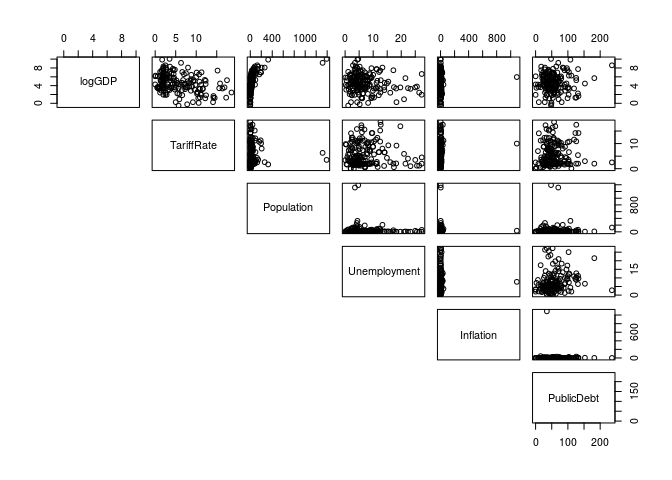
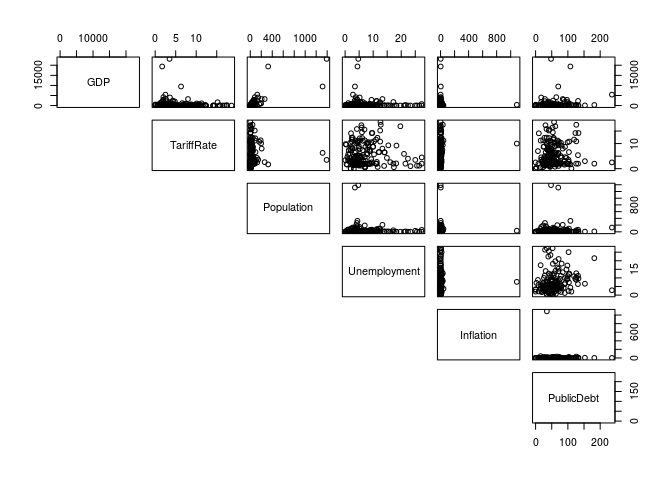
Edited scatterplots and added in multivariate analysis

diff --git a/01-proposal/proposal.md b/01-proposal/proposal.md
@@ -7,14 +7,14 @@ Rtists
 library(tidyverse)
 ```
 
-    ## ── Attaching packages ─────────────────────────────────────────────────────────────── tidyverse 1.2.1 ──
+    ## ── Attaching packages ─────────────────────────────────────────────────────────────────────────────────── tidyverse 1.2.1 ──
 
     ## ✔ ggplot2 3.2.1     ✔ purrr   0.3.2
     ## ✔ tibble  2.1.3     ✔ dplyr   0.8.3
     ## ✔ tidyr   0.8.3     ✔ stringr 1.4.0
     ## ✔ readr   1.3.1     ✔ forcats 0.4.0
 
-    ## ── Conflicts ────────────────────────────────────────────────────────────────── tidyverse_conflicts() ──
+    ## ── Conflicts ────────────────────────────────────────────────────────────────────────────────────── tidyverse_conflicts() ──
     ## ✖ dplyr::filter() masks stats::filter()
     ## ✖ dplyr::lag()    masks stats::lag()
 
@@ -135,7 +135,7 @@ skim()
     ##  n obs: 173 
     ##  n variables: 1 
     ## 
-    ## ── Variable type:numeric ───────────────────────────────────────────────────────────────────────────────
+    ## ── Variable type:numeric ───────────────────────────────────────────────────────────────────────────────────────────────────
     ##  variable missing complete   n   mean      sd  p0  p25  p50   p75    p100
     ##       GDP       0      173 173 729.71 2486.04 0.6 28.3 88.9 439.6 23159.1
     ##      hist
@@ -172,7 +172,7 @@ skim()
     ##  n obs: 173 
     ##  n variables: 1 
     ## 
-    ## ── Variable type:numeric ───────────────────────────────────────────────────────────────────────────────
+    ## ── Variable type:numeric ───────────────────────────────────────────────────────────────────────────────────────────────────
     ##  variable missing complete   n   mean      sd  p0  p25  p50   p75    p100
     ##       GDP       0      173 173 729.71 2486.04 0.6 28.3 88.9 439.6 23159.1
     ##      hist
@@ -210,7 +210,7 @@ skim()
     ##  n obs: 173 
     ##  n variables: 1 
     ## 
-    ## ── Variable type:numeric ───────────────────────────────────────────────────────────────────────────────
+    ## ── Variable type:numeric ───────────────────────────────────────────────────────────────────────────────────────────────────
     ##  variable missing complete   n mean   sd    p0  p25  p50  p75  p100
     ##    logGDP       0      173 173 4.61 2.08 -0.51 3.34 4.49 6.09 10.05
     ##      hist
@@ -247,7 +247,7 @@ skim()
     ##  n obs: 173 
     ##  n variables: 1 
     ## 
-    ## ── Variable type:numeric ───────────────────────────────────────────────────────────────────────────────
+    ## ── Variable type:numeric ───────────────────────────────────────────────────────────────────────────────────────────────────
     ##   variable missing complete   n  mean    sd  p0 p25  p50  p75 p100
     ##  TaxBurden       0      173 173 22.19 10.25 1.6  14 20.7 30.2   47
     ##      hist
@@ -280,7 +280,7 @@ skim()
     ##  n obs: 173 
     ##  n variables: 1 
     ## 
-    ## ── Variable type:numeric ───────────────────────────────────────────────────────────────────────────────
+    ## ── Variable type:numeric ───────────────────────────────────────────────────────────────────────────────────────────────────
     ##     variable missing complete   n mean    sd   p0  p25  p50  p75 p100
     ##  GovSpending       0      173 173 32.2 10.67 10.6 23.6 31.6 39.8 64.2
     ##      hist
@@ -316,7 +316,7 @@ skim()
     ##  n obs: 173 
     ##  n variables: 1 
     ## 
-    ## ── Variable type:numeric ───────────────────────────────────────────────────────────────────────────────
+    ## ── Variable type:numeric ───────────────────────────────────────────────────────────────────────────────────────────────────
     ##    variable missing complete   n  mean     sd  p0 p25 p50  p75   p100
     ##  Population       0      173 173 42.16 149.89 0.1 2.9 9.5 31.4 1390.1
     ##      hist
@@ -350,7 +350,7 @@ skim()
     ##  n obs: 173 
     ##  n variables: 1 
     ## 
-    ## ── Variable type:numeric ───────────────────────────────────────────────────────────────────────────────
+    ## ── Variable type:numeric ───────────────────────────────────────────────────────────────────────────────────────────────────
     ##    variable missing complete   n  mean     sd  p0 p25 p50  p75   p100
     ##  Population       0      173 173 42.16 149.89 0.1 2.9 9.5 31.4 1390.1
     ##      hist
@@ -383,7 +383,7 @@ skim()
     ##  n obs: 173 
     ##  n variables: 1 
     ## 
-    ## ── Variable type:numeric ───────────────────────────────────────────────────────────────────────────────
+    ## ── Variable type:numeric ───────────────────────────────────────────────────────────────────────────────────────────────────
     ##      variable missing complete   n mean   sd  p0 p25 p50 p75 p100     hist
     ##  Unemployment       0      173 173 7.27 5.67 0.1 3.7 5.5 9.3 27.3 ▆▇▅▂▁▁▁▁
 
@@ -427,7 +427,7 @@ skim()
     ##  n obs: 173 
     ##  n variables: 1 
     ## 
-    ## ── Variable type:numeric ───────────────────────────────────────────────────────────────────────────────
+    ## ── Variable type:numeric ───────────────────────────────────────────────────────────────────────────────────────────────────
     ##   variable missing complete   n  mean    sd   p0 p25 p50 p75   p100
     ##  Inflation       0      173 173 10.87 82.56 -0.9 1.3 2.8 5.5 1087.5
     ##      hist
@@ -515,7 +515,7 @@ economic_data %>%
     ##  n obs: 173 
     ##  n variables: 1 
     ## 
-    ## ── Variable type:numeric ───────────────────────────────────────────────────────────────────────────────
+    ## ── Variable type:numeric ───────────────────────────────────────────────────────────────────────────────────────────────────
     ##    variable missing complete   n mean  sd p0 p25 p50 p75 p100     hist
     ##  TariffRate       0      173 173 5.61 4.4  0   2 4.2 8.7 18.6 ▇▅▃▃▃▁▁▁
 
@@ -545,7 +545,7 @@ economic_data %>%
     ##  n obs: 173 
     ##  n variables: 1 
     ## 
-    ## ── Variable type:numeric ───────────────────────────────────────────────────────────────────────────────
+    ## ── Variable type:numeric ───────────────────────────────────────────────────────────────────────────────────────────────────
     ##       variable missing complete   n  mean    sd p0 p25 p50 p75 p100
     ##  IncomeTaxRate       0      173 173 28.78 13.32  0  20  30  35   60
     ##      hist
@@ -579,7 +579,7 @@ skim()
     ##  n obs: 173 
     ##  n variables: 1 
     ## 
-    ## ── Variable type:numeric ───────────────────────────────────────────────────────────────────────────────
+    ## ── Variable type:numeric ───────────────────────────────────────────────────────────────────────────────────────────────────
     ##          variable missing complete   n  mean   sd p0 p25 p50 p75 p100
     ##  CorporateTaxRate       0      173 173 23.95 8.89  0  20  25  30   50
     ##      hist
@@ -612,7 +612,7 @@ skim()
     ##  n obs: 173 
     ##  n variables: 1 
     ## 
-    ## ── Variable type:numeric ───────────────────────────────────────────────────────────────────────────────
+    ## ── Variable type:numeric ───────────────────────────────────────────────────────────────────────────────────────────────────
     ##    variable missing complete   n  mean   sd p0  p25  p50  p75  p100
     ##  PublicDebt       0      173 173 56.46 33.8  0 35.2 49.4 69.9 236.4
     ##      hist
@@ -624,90 +624,99 @@ skewed. There are several outliers with public debt more than 175%. The
 mode of the distribution is around 30%. The median public debt is 49.4%
 and the interquartile range is 35%.
 
+### Multi-Variate Analysis of Response vs Predictor Variables
+
 Finally, we can visualize paired scatter plots of the relationship
 between GDP and each of our predictor variables. This is shown below.
-Some of the plots provide no visual information as there are outliers
-that skew the visualization, but this will be corrected for later in our
-analysis.
+Most of the plots provide no visual information as there are outliers
+that skew the
+visualization.
 
 ``` r
-pairs(logGDP ~ TariffRate + Population + Unemployment + Inflation + PublicDebt, data=economic_data, lower.panel = NULL)
+pairs(GDP ~ TariffRate + Population + Unemployment + Inflation + PublicDebt, data=economic_data, lower.panel = NULL)
 ```
 
 ![](proposal_files/figure-gfm/scatterplot%20matrix%20GDP%20growth-1.png)<!-- -->
 
 ``` r
-pairs(logGDP ~ GovSpending + IncomeTaxRate + CorporateTaxRate + TaxBurden, data=economic_data, lower.panel = NULL)
+pairs(GDP ~ GovSpending + IncomeTaxRate + CorporateTaxRate + TaxBurden, data=economic_data, lower.panel = NULL)
 ```
 
 ![](proposal_files/figure-gfm/scatterplot%20matrix%20GDP%20growth-2.png)<!-- -->
 
-``` r
-economic_data %>%
-ggplot(mapping = aes(x = Region, y = GDP)) +
-  geom_boxplot(position="dodge") +
-  labs(title = "Boxplots of GDP versus Region")
-```
-
-![](proposal_files/figure-gfm/scatterplot%20matrix%20GDP%20growth-3.png)<!-- -->
-
-``` r
-economic_data %>%
-ggplot(mapping = aes(x = GovInterference, y = GDP)) +
-  geom_boxplot(position="dodge") +
-  labs(title = "Boxplots of Government Interference versus Region")
-```
-
-![](proposal_files/figure-gfm/scatterplot%20matrix%20GDP%20growth-4.png)<!-- -->
+To better help us visualize the relationship between the predictor and
+response variables for most data points, we plotted a scatterplot matrix
+with most of the outliers removed.
 
 ``` r
 temp <- economic_data %>%
   filter(GDP<3000 & Inflation < 100)
 
-temp <- temp %>%
-  mutate(sqrtGDP = (GDP)^(1/2))
-
-pairs(sqrtGDP ~ TariffRate + Population + Unemployment + Inflation + PublicDebt, data=temp, lower.panel = NULL)
+pairs(GDP ~ TariffRate + Population + Unemployment + Inflation + PublicDebt, data=temp, lower.panel = NULL)
 ```
 
-![](proposal_files/figure-gfm/scatterplot%20matrix%20GDP%20growth-5.png)<!-- -->
+![](proposal_files/figure-gfm/Scatterplot%20GDP%20without%20outliers-1.png)<!-- -->
 
 ``` r
-pairs(sqrtGDP ~ GovSpending + IncomeTaxRate + CorporateTaxRate + TaxBurden, data=temp, lower.panel = NULL)
+pairs(GDP ~ GovSpending + IncomeTaxRate + CorporateTaxRate + TaxBurden, data=temp, lower.panel = NULL)
 ```
 
-![](proposal_files/figure-gfm/scatterplot%20matrix%20GDP%20growth-6.png)<!-- -->
+![](proposal_files/figure-gfm/Scatterplot%20GDP%20without%20outliers-2.png)<!-- -->
+
+Based on the scatterplots above, we observe that most predictor
+variables do not have a clear linear relationship with the response
+variable GDP. Thus, we log transform GDP to see if there is a stronger
+linear relationship. As seen previously, logGDP has a normal
+distribution while GDP is extremely right
+skewed.
 
 ``` r
-temp %>%
-ggplot(mapping = aes(x = Region, y = GDP)) +
+pairs(logGDP ~ TariffRate + Population + Unemployment + Inflation + PublicDebt, data=temp, lower.panel = NULL)
+```
+
+![](proposal_files/figure-gfm/Scatterplot%20logGDP-1.png)<!-- -->
+
+``` r
+pairs(logGDP ~ GovSpending + IncomeTaxRate + CorporateTaxRate + TaxBurden, data=temp, lower.panel = NULL)
+```
+
+![](proposal_files/figure-gfm/Scatterplot%20logGDP-2.png)<!-- --> Based
+on the scatterplots of the response variables against the quantitative
+predictor variables, we see that there is now a much stronger a linear
+relationship between the two. Particularly, we note that the logGDP
+against population scatterplot shows a curved distribution which
+resembles a logarithimic function. We can thus log transform the
+population variable.
+
+Moreover, we also noticed some multicollinearity issues between
+predictor variables. In specific, the relationship between GovSpending
+and TaxBurden appears very strongly if not almost linear. Other
+variables suspect of multicollinearity problems include tariff rate and
+unemployment as well as tariff rate and unemployment.
+
+``` r
+economic_data %>%
+ggplot(mapping = aes(x = Region, y = logGDP)) +
   geom_boxplot(position="dodge") +
-  labs(title = "Boxplots of GDP versus Region")
+  labs(title = "Boxplots of log GDP versus Region")
 ```
 
-![](proposal_files/figure-gfm/scatterplot%20matrix%20GDP%20growth-7.png)<!-- -->
+![](proposal_files/figure-gfm/Boxplots%20for%20response%20vs%20categorical-1.png)<!-- -->
 
 ``` r
-temp %>%
-ggplot(mapping = aes(x = GovInterference, y = GDP)) +
+economic_data %>%
+ggplot(mapping = aes(x = GovInterference, y = logGDP)) +
   geom_boxplot(position="dodge") +
-  labs(title = "Boxplots of GDP versus Government Interference")
+  labs(title = "Boxplots of log GDP versus Government Interference")
 ```
 
-![](proposal_files/figure-gfm/scatterplot%20matrix%20GDP%20growth-8.png)<!-- -->
+![](proposal_files/figure-gfm/Boxplots%20for%20response%20vs%20categorical-2.png)<!-- -->
 
-We then made a scatterplot of responser variable against all 10
-predictor variables; because there are more than 5 predictor variables,
-we break the matrix into two so that each scatterplot is not
-indistinguishable. Based on the the first two scatterplot matrix, we can
-see that because of some extreme values in GDP and some predictor
-variables, we cannot see clearly the relationship between the predictor
-and response variables. So, we imposed a threshold on GDP and Inflation
-to better help us visualize the relationship. According to the fifth and
-sixth scatterplot matrix with outliers dropped, we ccan see that there
-is approxiamtely a linear relationship between response variable and all
-predictor variables. However, we noticed some multicollinearity issues
-between predictor variables, like GovSpending and TaxBurden.
+For the relationship between the response and categorical variables, the
+various boxplots suggest that there are generally normally distributed
+with minimal skewing. This means that a linear regression between log
+GDP and the categorical variables of region and government interference
+are appropriate.
 
 ## Section 3. Regression Analysis Plan
 
